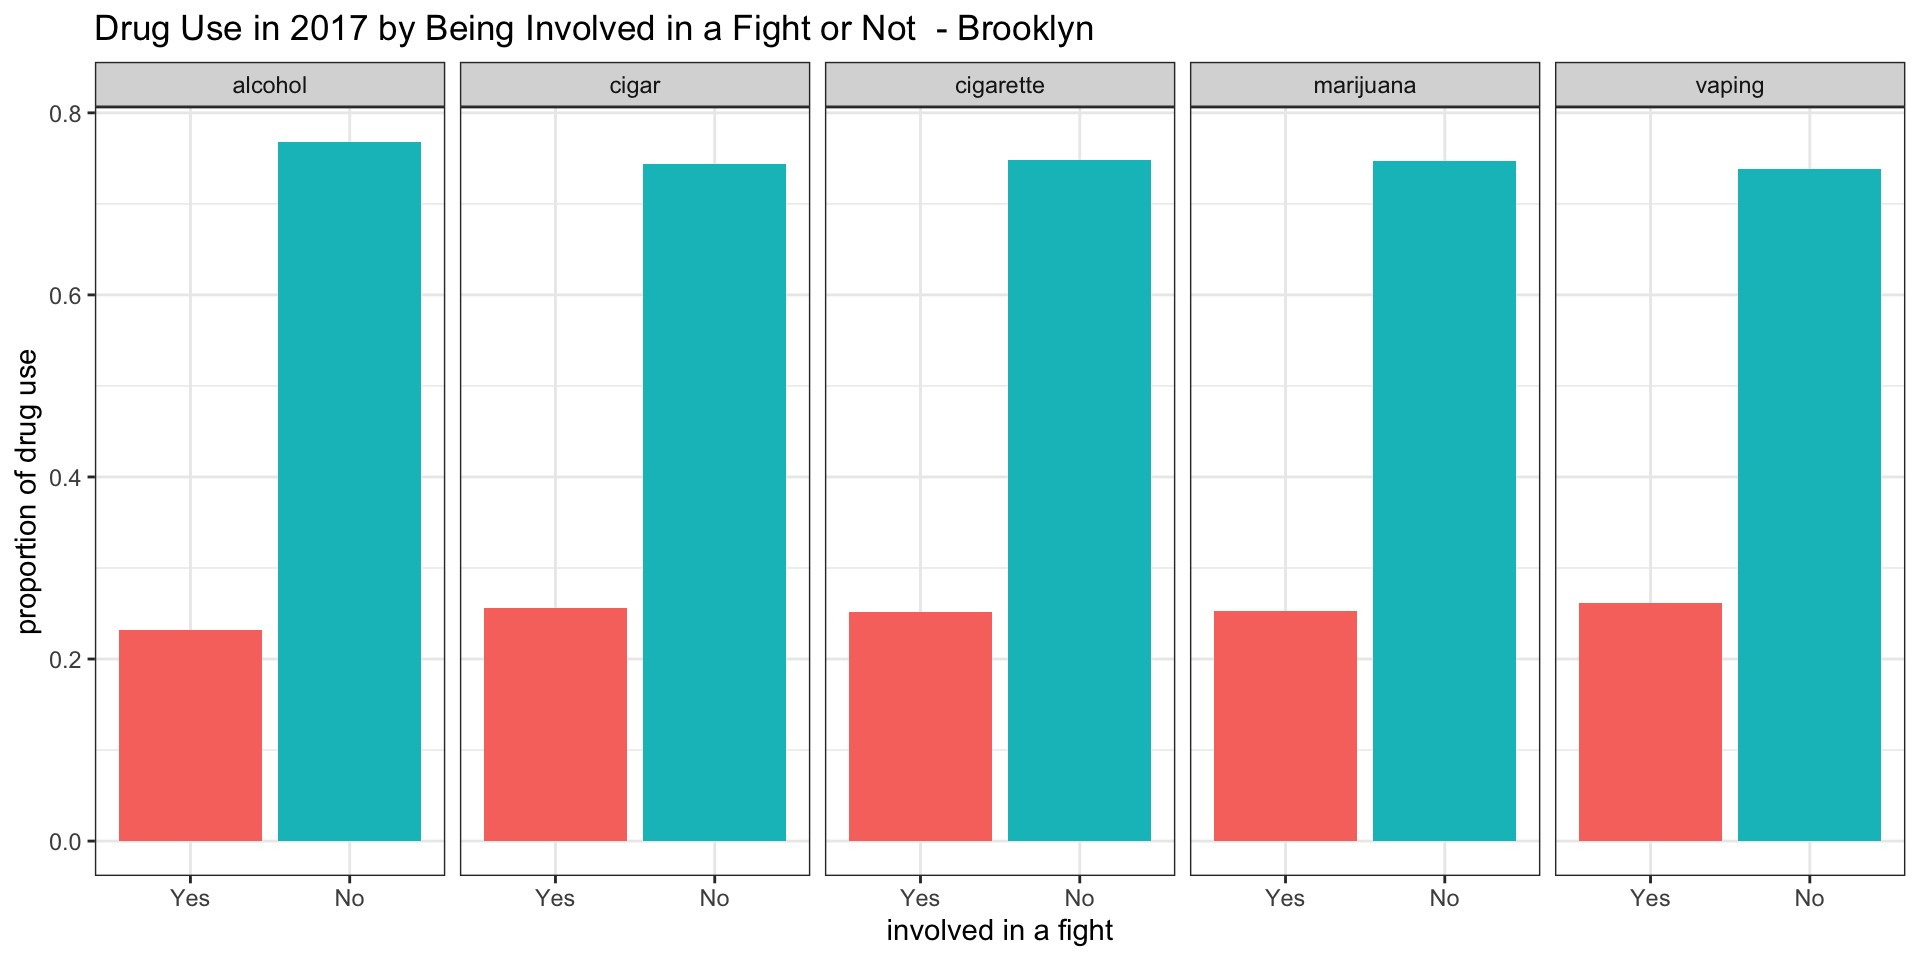
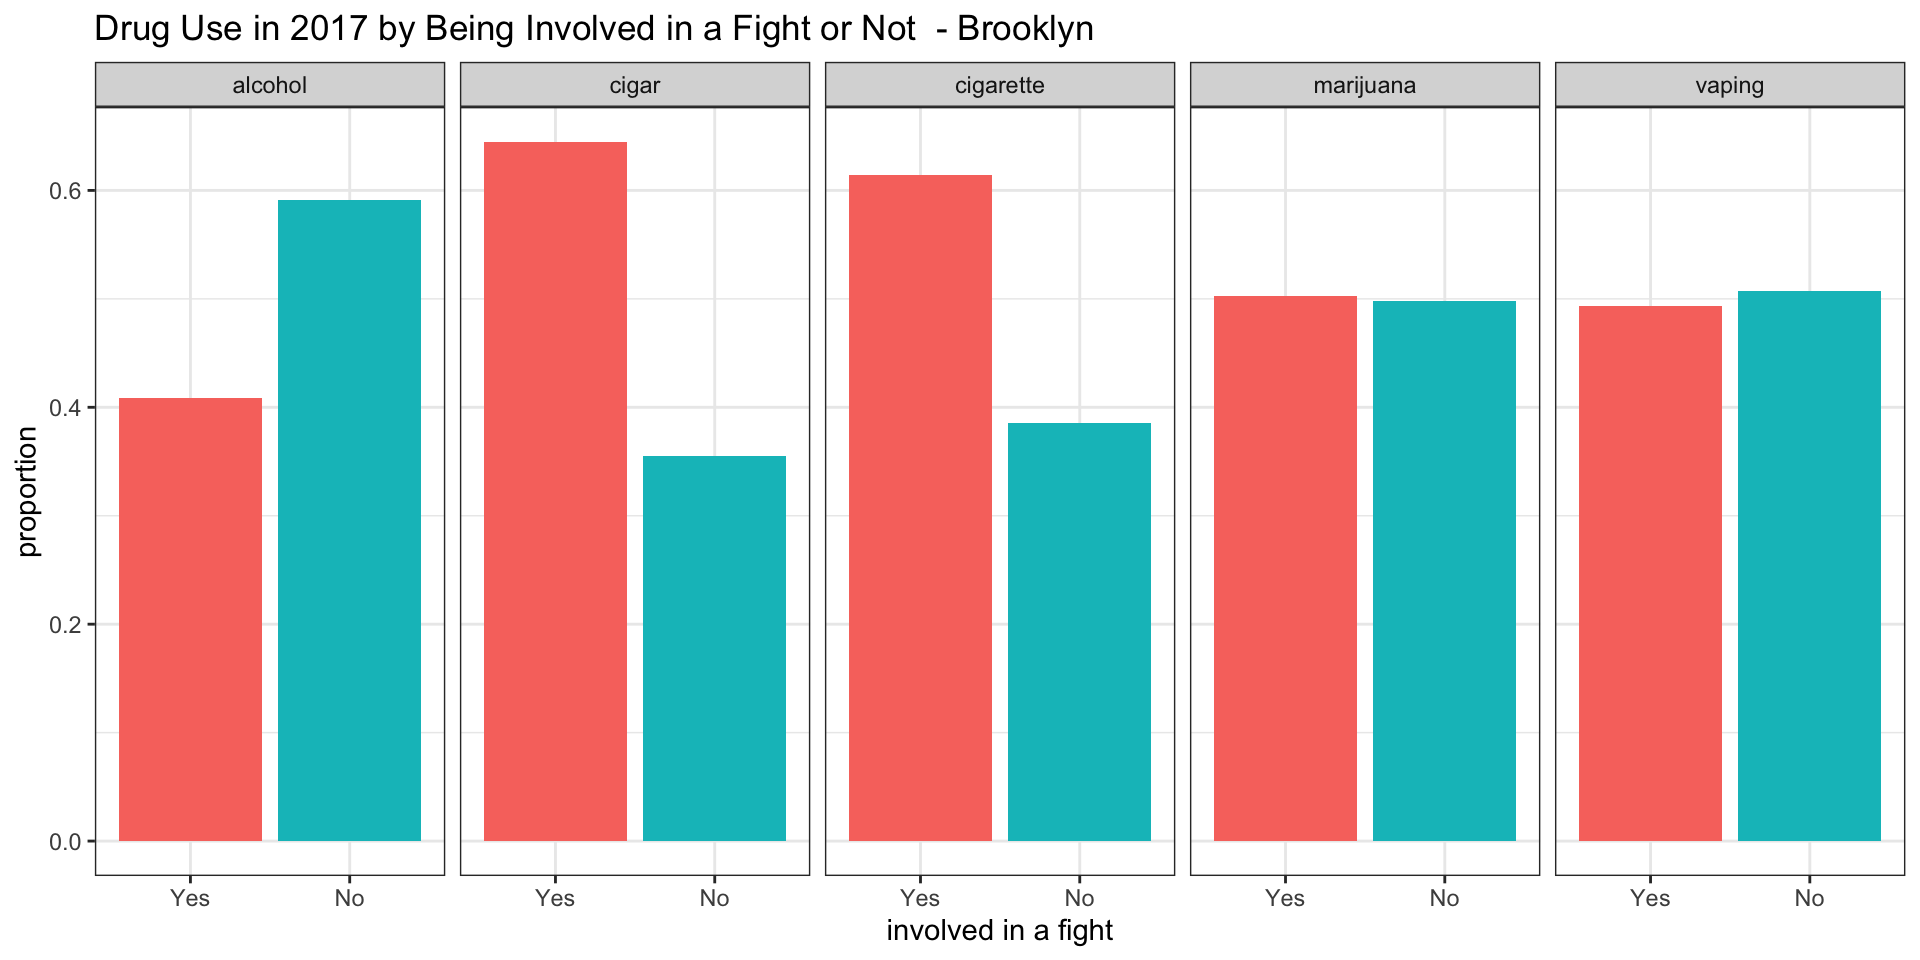
Final Commit

diff --git a/Report.html b/Report.html
@@ -436,8 +436,8 @@ div.tocify {
 <ol style="list-style-type: decimal">
 <li><p>How has drug use changed over time in NYC’s youth?</p></li>
 <li><p>How have mental health related issues changed over time in NYC’s youth?</p></li>
-<li><p>How did drug use differ by sex in NYC’s youth in 2017?</p></li>
-<li><p>How did drug use differ by being involved in fights in NYC’s youth in 2017?</p></li>
+<li><p>What is the distribution of sex for each particular drug in 2017 across all boroughs?</p></li>
+<li><p>What is the distribution of being involved in a fight for each particular drug in 2017 across all boroughs?</p></li>
 <li><p>Can we build a model with currently available data to predict future vaping use?</p></li>
 </ol>
 <p><br></p>
@@ -663,10 +663,11 @@ animate(mental_p)</code></pre>
 <p><br> <br></p>
 </div>
 </div>
-<div id="exploring-drug-use-in-2017-by-sex-within-each-borough" class="section level2">
-<h2>Exploring drug use in 2017 by sex within each borough</h2>
+<div id="exploring-the-distribution-of-sex-for-each-particular-drug-in-2017-across-all-boroughs" class="section level2">
+<h2>Exploring the distribution of sex for each particular drug in 2017 across all boroughs</h2>
 <p><br></p>
-<p>We were interested in whether there is a difference in drug use between female and male teenagers in different boroughs in NYC in 2017. To that end, we created the following plots:</p>
+<p>We were interested in the distribution of sex for each particular drug in different boroughs of NYC in 2017. To that end, we created the following plots:</p>
+<p>Note that the plots show only data for teenagers consuming the particular drug of interest.</p>
 <p><br></p>
 <pre class="r"><code>sex_plot = function(df, borough) {
 df %&gt;% 
@@ -685,6 +686,7 @@ df %&gt;%
   mutate(
     drug = str_replace(drug, &quot;_use&quot;, &quot;&quot;)) %&gt;%
   drop_na() %&gt;% 
+  filter(status == &quot;Yes&quot;) %&gt;% 
   group_by(
     drug,
     sex
@@ -703,7 +705,7 @@ df %&gt;%
   labs(
     title = str_c(&quot;Drug Use in 2017 by Sex in &quot;, borough),
     x = &quot;sex&quot;,
-    y = &quot;proportion of drug use&quot;) + 
+    y = &quot;proportion&quot;) + 
   theme(legend.position = &quot;none&quot;) +
   facet_grid(~drug)}
 
@@ -741,20 +743,26 @@ sex_Staten_Island = sex_plot(nyc_drug %&gt;% filter(year == &quot;2017&quot; &am
 <div id="interpretation-2" class="section level4">
 <h4>Interpretation</h4>
 <p><br></p>
-<p>Studying these plots, we were able to derive the following results:</p>
+<p>Studying these plots, we were able to derive the following interesting results:</p>
 <ul>
-<li><p>According to our survey data, it appears as if independent of the type of drug the proportion of male teenagers in the Bronx using a particular type of drug is higher (about 0.55) compared to their female counterparts.</p></li>
-<li><p>According to our survey data, it appears as if independent of the type of drug the proportion of female teenagers in Brooklyn using a particular type of drug is higher (about 0.55) compared to their male counterparts.</p></li>
-<li><p>According to our survey data, it appears as if independent of the type of drug the proportion of female teenagers in Manhattan using a particular type of drug is higher (almost 0.60) compared to their male counterparts.</p></li>
-<li><p>According to our survey data, it appears as if independent of the type of drug the proportion of female teenagers in Queens using a particular type of drug is about equal to the proportion of their male counterparts. A similar trend can be observed in Staten Island. However it seems as if marijuana use is slightly higher in female than in males teenagers in Staten Island.</p></li>
+<li><p>According to our survey data, it appears as if the consumpution of alcohol is more common among female teenagers in all boroughs except for Staten Island.</p></li>
+<li><p>According to our survey data, it appears as if cigars are more smoked among male teenagers in all boroughs.</p></li>
+<li><p>According to our survey data, it appears as if cigarettes are more smoked among male teenagers in all boroughs.</p></li>
+<li><p>According to our survey data, it appears as if there is no difference in marijuana usage between the genders in the Bronx and Queens.</p></li>
+<li><p>According to our survey data, it appears as if marijunana is more smoked among female teenagers in Brooklyn and in Manhattan.</p></li>
+<li><p>According to our survey data, it appears as if marijunana is more smoked among male teenagers in Staten Island.</p></li>
+<li><p>According to our survey data, it appears as if there is no difference in vaping between the genders in the Bronx.</p></li>
+<li><p>According to our survey data, it appears as if there is more vaping present among male teenagers in Brooklyn, Queens, Staten Island.</p></li>
+<li><p>According to our survey data, it appears as if there is more vaping present among female teenagers in Manhattan.</p></li>
 </ul>
-<p><br><br></p>
+<p><br> <br></p>
 </div>
 </div>
-<div id="exploring-drug-use-in-2017-by-being-involved-in-fights" class="section level2">
-<h2>Exploring drug use in 2017 by being involved in fights</h2>
+<div id="exploring-the-distribution-of-being-involved-in-a-fight-for-each-particular-drug-in-2017-across-all-boroughs" class="section level2">
+<h2>Exploring the distribution of being involved in a fight for each particular drug in 2017 across all boroughs</h2>
 <p><br></p>
-<p>We were interested in whether there is a difference in drug use between teenagers involved in fights and teenagers not involved in fights in different boroughs of NYC in 2017. To that end, we created the following plots:</p>
+<p>We were interested in the distribution of being involved in a fight for each particular drug in different boroughs of NYC in 2017. To that end, we created the following plots:</p>
+<p>Note that the plots show only data for teenagers consuming the particular drug of interest.</p>
 <p><br></p>
 <pre class="r"><code>fight_plot = function(df, borough) {
 df %&gt;% 
@@ -773,6 +781,7 @@ df %&gt;%
   mutate(
     drug = str_replace(drug, &quot;_use&quot;, &quot;&quot;)) %&gt;%
   drop_na() %&gt;% 
+  filter(status == &quot;Yes&quot;) %&gt;% 
   group_by(
     drug,
     physical_fighting
@@ -791,7 +800,7 @@ df %&gt;%
   labs(
     title = str_c(&quot;Drug Use in 2017 by Being Involved in a Fight or Not &quot;, borough),
     x = &quot;involved in a fight&quot;,
-    y = &quot;proportion of drug use&quot;) +   
+    y = &quot;proportion&quot;) +   
   theme(legend.position = &quot;none&quot;) +
   facet_grid(~drug)}
 
@@ -831,16 +840,15 @@ fight_Staten_Island = fight_plot(nyc_drug %&gt;% filter(year == &quot;2017&quot;
 <div id="interpretation-3" class="section level4">
 <h4>Interpretation</h4>
 <p><br></p>
-<p>Studying these plots, we were able to derive the following result:</p>
+<p>Studying these plots, we were able to derive the following interesting results:</p>
 <ul>
-<li><p>According to our survey data, it appears as if independent of the type of drug the proportion of teenagers involved in a fight in the Bronx is about 0.28, with the exception of alcohol, for which the proportion seems to be about 0.25.</p></li>
-<li><p>The same trend can be observed in Brooklyn. The only differences appear to be that the proportions itself are a bit lower: 0.22 for alcohol and about 0.25 for the remaining types of drugs.</p></li>
-<li><p>According to our survey data, it appears as if independent of the type of drug the proportion of teenagers involved in a fight in Manhatten is about 0.22.</p></li>
-<li><p>According to our survey data, it appears as if the proportion of teenagers involved in a fight in Queens is slightly higher for children vaping (about 0.24) and smoking cigars (about 0.23).</p></li>
-<li><p>According to our survey data, it appears as if independent of the type of drug the proportion of teenagers involved in a fight in Staten Island is about 0.19 - the lowest proportion of all boroughs.</p></li>
+<li><p>According to our survey data, it appears as if among teenagers consuming alcohol between 0.35 and 0.45 have been involved in a fight in all boroughs.</p></li>
+<li><p>According to our survey data, it appears as if among teenagers smoking cigars between 0.55 and 0.65 have been involved in a fight in all boroughs.</p></li>
+<li><p>According to our survey data, it appears as if among teenagers smoking cigarettes between 0.48 and 0.70 have been involved in a fight in all boroughs, with Manhattan having the lowest proportion of about 0.48</p></li>
+<li><p>According to our survey data, it appears af if among teenagers smoking marijuana only in the Bronx the proportion of teenagers involved in a fight is above 0.5. For Brooklyn and Queens the proportion is about 0.5 and for Staten Island and Manhattan it is below 0.5.</p></li>
+<li><p>According to our survey data, it appears as if among teenagers vaping the proportion of teenagers being involved in a fight is about 0.5 for the Bronx and Brooklyn, while it is below 0.5 in Manhattan, Queens, and Staten Island.</p></li>
 </ul>
 <p><br></p>
-<p><strong>If this Exploratory Analysis sparked your interested, feel free to explore the data more using the Explore the Data tab on the top right corner of the website.</strong></p>
 <p><br> <br></p>
 </div>
 </div>

diff --git a/EDA.html b/EDA.html
@@ -367,10 +367,11 @@ $(document).ready(function () {
 <p><br> <br></p>
 </div>
 </div>
-<div id="exploring-drug-use-in-2017-by-sex-within-each-borough" class="section level2">
-<h2>Exploring drug use in 2017 by sex within each borough</h2>
+<div id="exploring-the-distribution-of-sex-for-each-particular-drug-in-2017-across-all-boroughs" class="section level2">
+<h2>Exploring the distribution of sex for each particular drug in 2017 across all boroughs</h2>
 <p><br></p>
-<p>We were interested in whether there is a difference in drug use between female and male teenagers in different boroughs in NYC in 2017. To that end, we created the following plots:</p>
+<p>We were interested in the distribution of sex for each particular drug in different boroughs of NYC in 2017. To that end, we created the following plots:</p>
+<p>Note that the plots show only data for teenagers consuming the particular drug of interest.</p>
 <p><br></p>
 </div>
 <div id="section" class="section level2 tabset tabset-fade tabset-pills">
@@ -401,20 +402,26 @@ $(document).ready(function () {
 <div id="interpretation-2" class="section level4">
 <h4>Interpretation</h4>
 <p><br></p>
-<p>Studying these plots, we were able to derive the following results:</p>
+<p>Studying these plots, we were able to derive the following interesting results:</p>
 <ul>
-<li><p>According to our survey data, it appears as if independent of the type of drug the proportion of male teenagers in the Bronx using a particular type of drug is higher (about 0.55) compared to their female counterparts.</p></li>
-<li><p>According to our survey data, it appears as if independent of the type of drug the proportion of female teenagers in Brooklyn using a particular type of drug is higher (about 0.55) compared to their male counterparts.</p></li>
-<li><p>According to our survey data, it appears as if independent of the type of drug the proportion of female teenagers in Manhattan using a particular type of drug is higher (almost 0.60) compared to their male counterparts.</p></li>
-<li><p>According to our survey data, it appears as if independent of the type of drug the proportion of female teenagers in Queens using a particular type of drug is about equal to the proportion of their male counterparts. A similar trend can be observed in Staten Island. However it seems as if marijuana use is slightly higher in female than in males teenagers in Staten Island.</p></li>
+<li><p>According to our survey data, it appears as if the consumpution of alcohol is more common among female teenagers in all boroughs except for Staten Island.</p></li>
+<li><p>According to our survey data, it appears as if cigars are more smoked among male teenagers in all boroughs.</p></li>
+<li><p>According to our survey data, it appears as if cigarettes are more smoked among male teenagers in all boroughs.</p></li>
+<li><p>According to our survey data, it appears as if there is no difference in marijuana usage between the genders in the Bronx and Queens.</p></li>
+<li><p>According to our survey data, it appears as if marijunana is more smoked among female teenagers in Brooklyn and in Manhattan.</p></li>
+<li><p>According to our survey data, it appears as if marijunana is more smoked among male teenagers in Staten Island.</p></li>
+<li><p>According to our survey data, it appears as if there is no difference in vaping between the genders in the Bronx.</p></li>
+<li><p>According to our survey data, it appears as if there is more vaping present among male teenagers in Brooklyn, Queens, and Staten Island.</p></li>
+<li><p>According to our survey data, it appears as if there is more vaping present among female teenagers in Manhattan.</p></li>
 </ul>
-<p><br><br></p>
+<p><br> <br></p>
 </div>
 </div>
-<div id="exploring-drug-use-in-2017-by-being-involved-in-fights" class="section level2">
-<h2>Exploring drug use in 2017 by being involved in fights</h2>
+<div id="exploring-the-distribution-of-being-involved-in-a-fight-for-each-particular-drug-in-2017-across-all-boroughs" class="section level2">
+<h2>Exploring the distribution of being involved in a fight for each particular drug in 2017 across all boroughs</h2>
 <p><br></p>
-<p>We were interested in whether there is a difference in drug use between teenagers involved in fights and teenagers not involved in fights in different boroughs of NYC in 2017. To that end, we created the following plots:</p>
+<p>We were interested in the distribution of being involved in a fight for each particular drug in different boroughs of NYC in 2017. To that end, we created the following plots:</p>
+<p>Note that the plots shows only data for teenagers consuming the particular drug of interest.</p>
 <p><br></p>
 </div>
 <div id="section-2" class="section level2 tabset tabset-fade tabset-pills">
@@ -445,13 +452,13 @@ $(document).ready(function () {
 <div id="interpretation-3" class="section level4">
 <h4>Interpretation</h4>
 <p><br></p>
-<p>Studying these plots, we were able to derive the following result:</p>
+<p>Studying these plots, we were able to derive the following interesting results:</p>
 <ul>
-<li><p>According to our survey data, it appears as if independent of the type of drug the proportion of teenagers involved in a fight in the Bronx is about 0.28, with the exception of alcohol, for which the proportion seems to be about 0.25.</p></li>
-<li><p>The same trend can be observed in Brooklyn. The only differences appear to be that the proportions itself are a bit lower: 0.22 for alcohol and about 0.25 for the remaining types of drugs.</p></li>
-<li><p>According to our survey data, it appears as if independent of the type of drug the proportion of teenagers involved in a fight in Manhatten is about 0.22.</p></li>
-<li><p>According to our survey data, it appears as if the proportion of teenagers involved in a fight in Queens is slightly higher for children vaping (about 0.24) and smoking cigars (about 0.23).</p></li>
-<li><p>According to our survey data, it appears as if independent of the type of drug the proportion of teenagers involved in a fight in Staten Island is about 0.19 - the lowest proportion of all boroughs.</p></li>
+<li><p>According to our survey data, it appears as if among teenagers consuming alcohol between 0.35 and 0.45 have been involved in a fight in all boroughs.</p></li>
+<li><p>According to our survey data, it appears as if among teenagers smoking cigars between 0.55 and 0.65 have been involved in a fight in all boroughs.</p></li>
+<li><p>According to our survey data, it appears as if among teenagers smoking cigarettes between 0.48 and 0.70 have been involved in a fight in all boroughs, with Manhattan having the lowest proportion of about 0.48</p></li>
+<li><p>According to our survey data, it appears af if among teenagers smoking marijuana only in the Bronx the proportion of teenagers involved in a fight is above 0.5. For Brooklyn and Queens the proportion is about 0.5 and for Staten Island and Manhattan it is below 0.5.</p></li>
+<li><p>According to our survey data, it appears as if among teenagers vaping the proportion of teenagers being involved in a fight is about 0.5 for the Bronx and Brooklyn, while it is below 0.5 in Manhattan, Queens, and Staten Island.</p></li>
 </ul>
 <p><br></p>
 <p><strong>If this Exploratory Analysis sparked your interested, feel free to explore the data more using the Explore the Data tab on the top right corner of the website.</strong></p>

diff --git a/Overview.html b/Overview.html
@@ -417,8 +417,8 @@ div.tocify {
 <ol style="list-style-type: decimal">
 <li><p>How has drug use changed over time in NYC’s youth?</p></li>
 <li><p>How have mental health related issues changed over time in NYC’s youth?</p></li>
-<li><p>How did drug use differ by sex in NYC’s youth in 2017?</p></li>
-<li><p>How did drug use differ by being involved in fights in NYC’s youth in 2017?</p></li>
+<li><p>What is the distribution of sex for each particular drug in 2017 across all boroughs?</p></li>
+<li><p>What is the distribution of being involved in a fight for each particular drug in 2017 across all boroughs?</p></li>
 <li><p>Can we build a model with currently available data to predict future vaping use?</p></li>
 </ol>
 <p><br></p>
